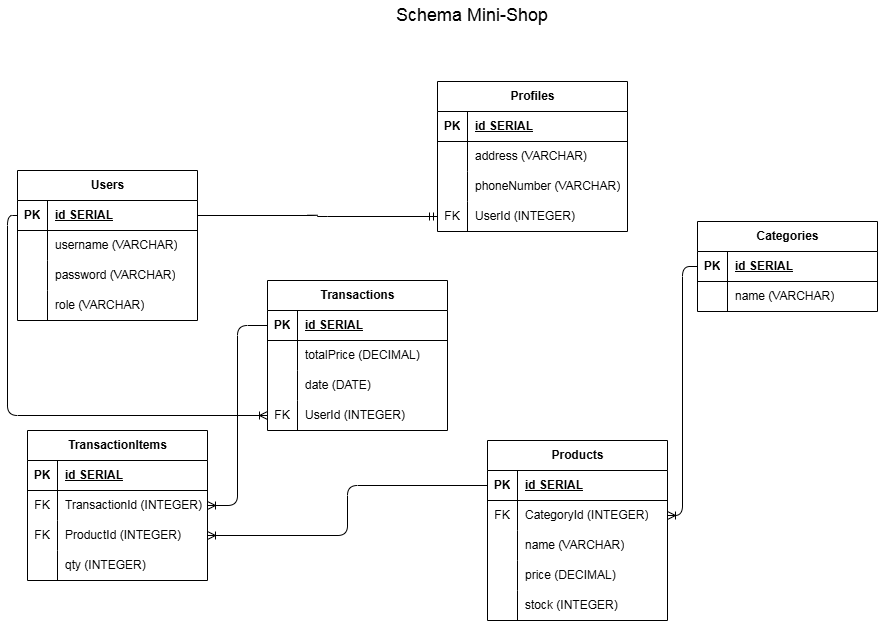
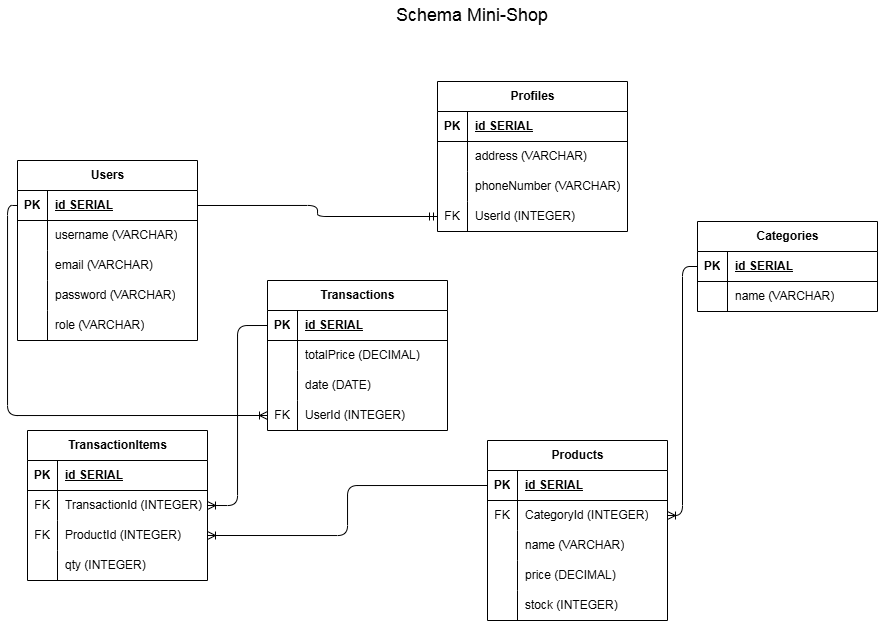
chore:Adding migration file add column to Users

Changed region(s): [[0.0, 0.2448, 0.2153, 0.5507]]

diff --git a/migrations/20260527162843-add-column-email-for-Users.js b/migrations/20260527162843-add-column-email-for-Users.js
@@ -1,0 +1,14 @@
+"use strict";
+
+/** @type {import('sequelize-cli').Migration} */
+module.exports = {
+  async up(queryInterface, Sequelize) {
+    await queryInterface.addColumn("Users", "email", {
+      type: Sequelize.STRING,
+    });
+  },
+
+  async down(queryInterface, Sequelize) {
+    await queryInterface.removeColumn("Users", "email");
+  },
+};